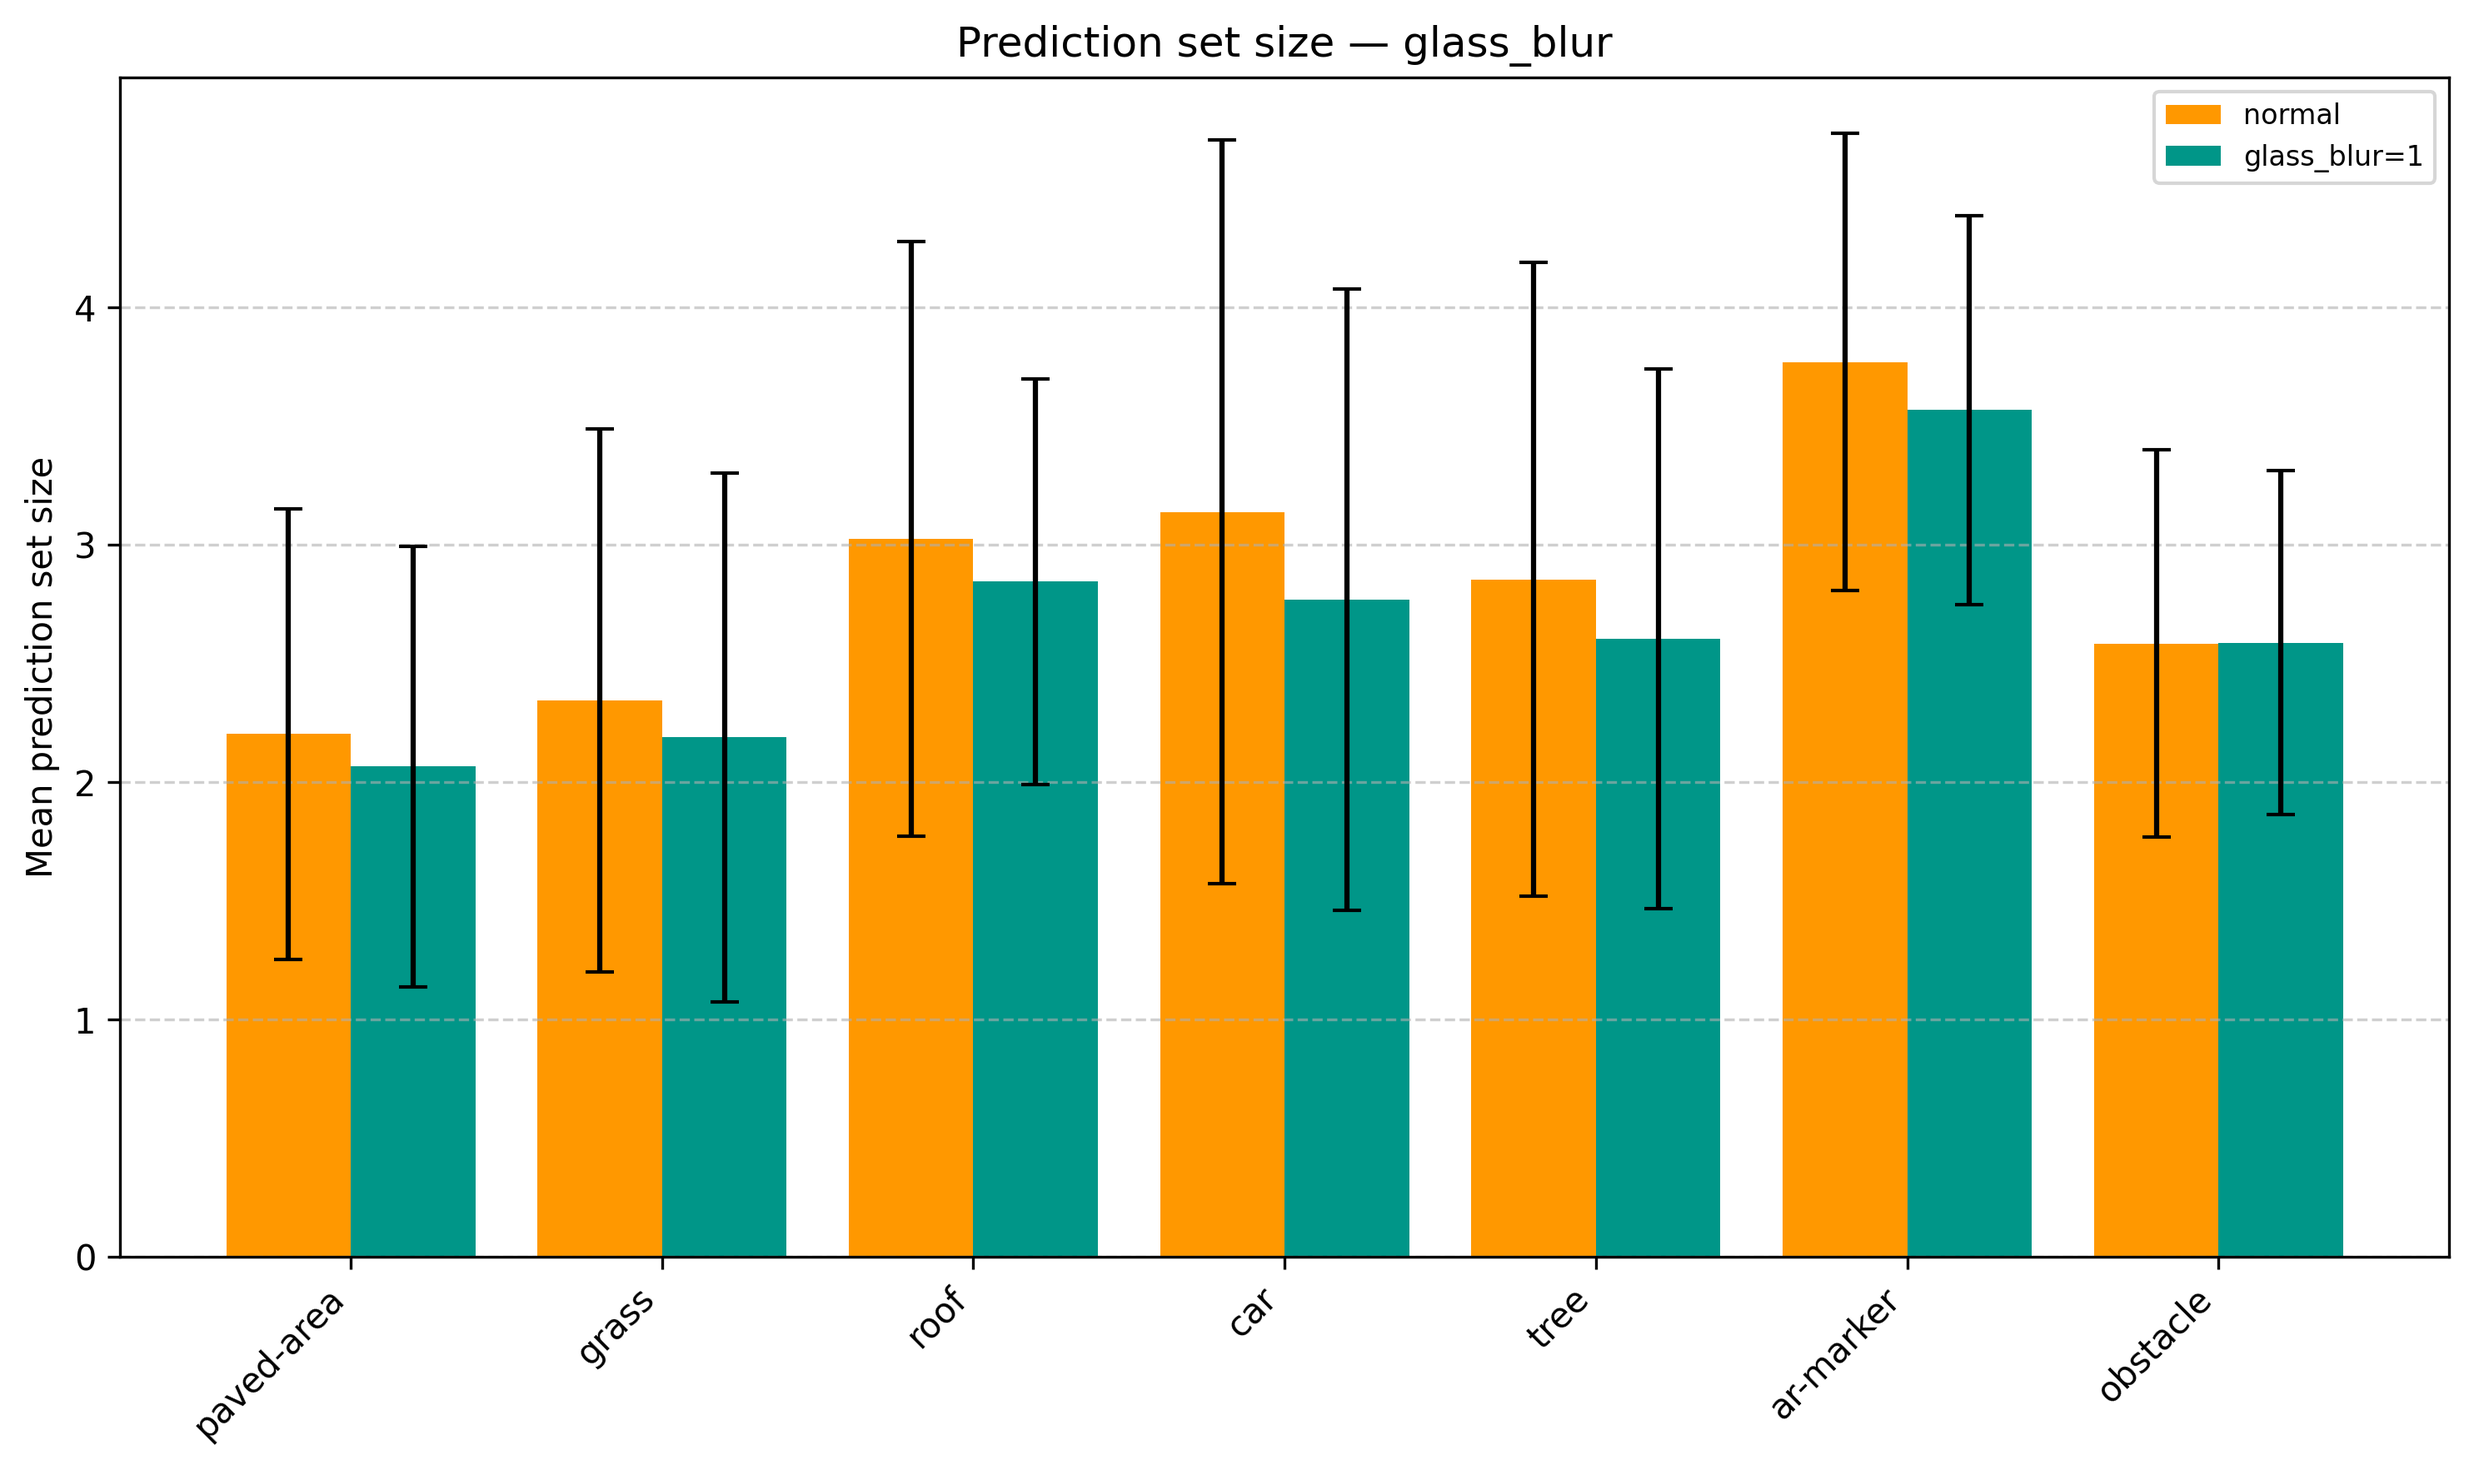
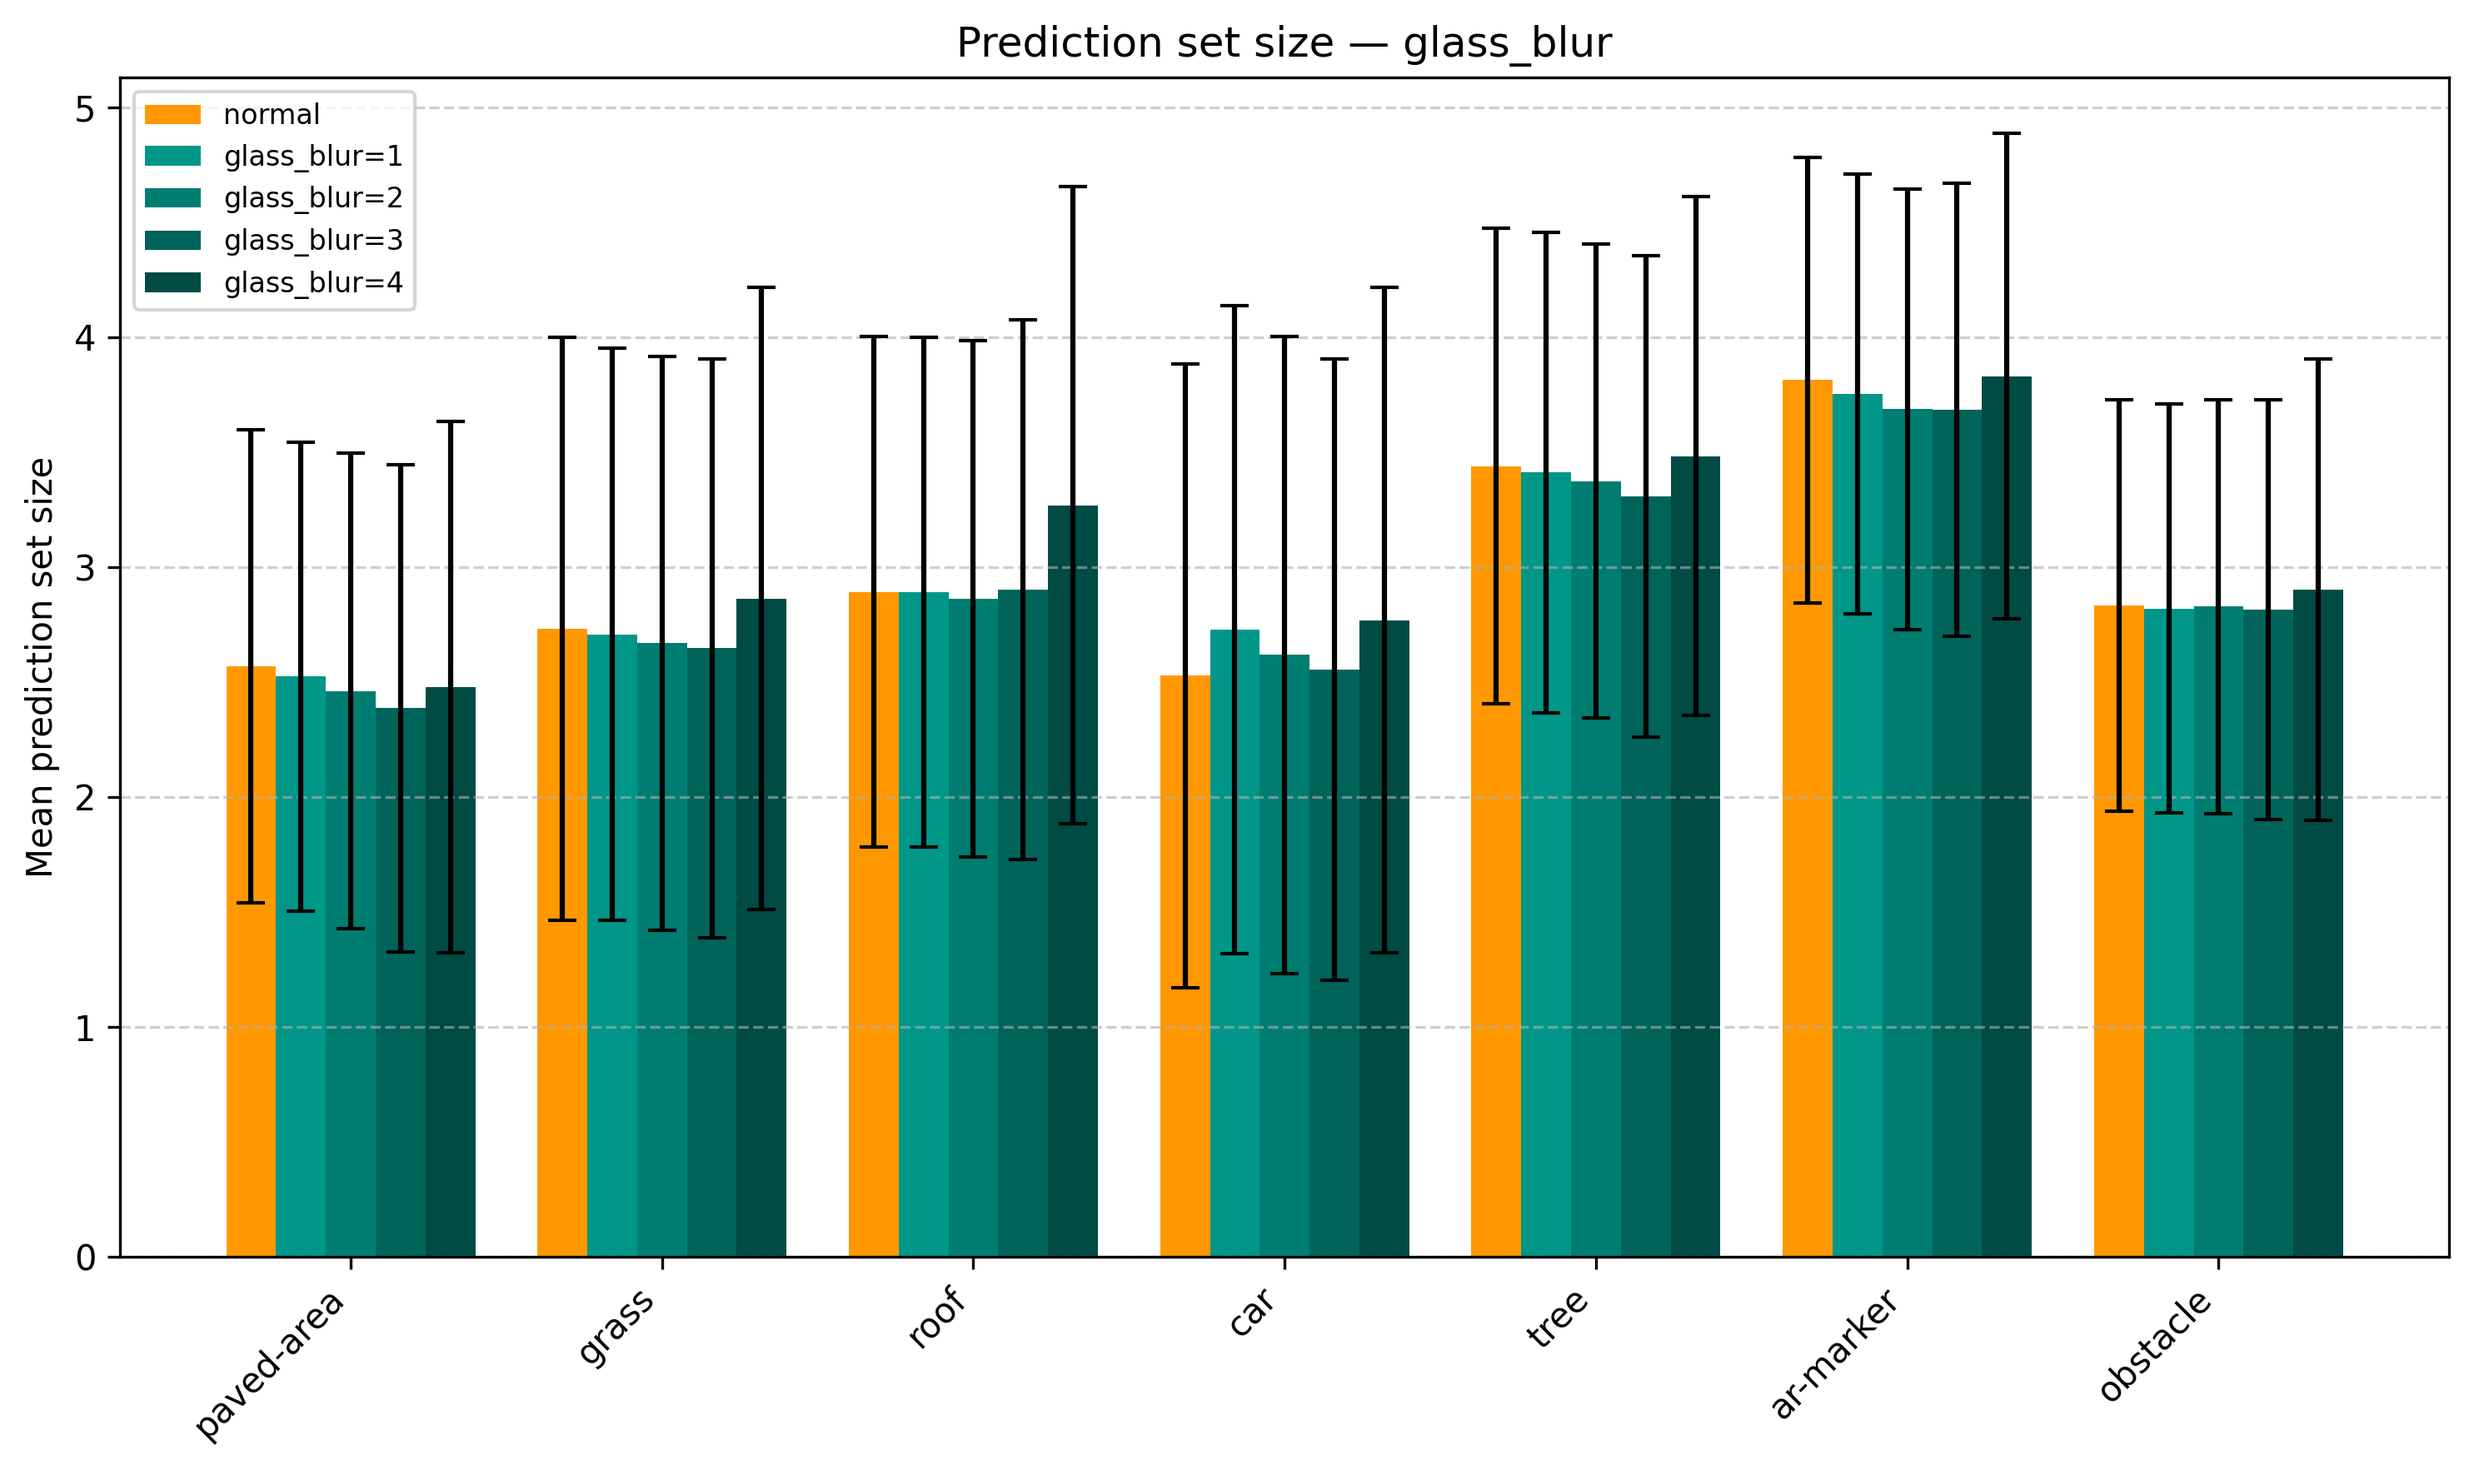
Ran new albumentations perturbations on all 400 images

diff --git a/conformal_prediction/new_stats/calc_stats.py b/conformal_prediction/new_stats/calc_stats.py
@@ -148,30 +148,30 @@ def calculate_stats(
 
 if __name__ == "__main__":
 
-    # num_images = 400
-    # image_type_dict = {
-    #     "normal": [],
-    #     "monochrome": [],
-    #     "gaussian_blur": [2,4,6,8],
-    #     "vertical_blur": [11,21,31,41],
-    #     "horizontal_blur": [11,21,31,41],
-    #     "glass_blur": [1,2,3,4],
-    #     "atmospheric_fog": [0.05, 0.10, 0.15, 0.20],
-    #     "rain": [0.85, 0.70, 0.55, 0.40]
-    # }
-    # num_images = 10
+    num_images = 400
     image_type_dict = {
         "normal": [],
         "monochrome": [],
-        "gaussian_blur": [2],
-        "vertical_blur": [11],
-        "horizontal_blur": [11],
-        "glass_blur": [1],
-        "atmospheric_fog": [0.05],
-        "rain": [0.85]
+        "gaussian_blur": [2,4,6,8],
+        "vertical_blur": [11,21,31,41],
+        "horizontal_blur": [11,21,31,41],
+        "glass_blur": [1,2,3,4],
+        "atmospheric_fog": [0.05, 0.10, 0.15, 0.20],
+        "rain": [0.85, 0.70, 0.55, 0.40]
     }
+    # # num_images = 10
+    # image_type_dict = {
+    #     "normal": [],
+    #     "monochrome": [],
+    #     "gaussian_blur": [2],
+    #     "vertical_blur": [11],
+    #     "horizontal_blur": [11],
+    #     "glass_blur": [1],
+    #     "atmospheric_fog": [0.05],
+    #     "rain": [0.85]
+    # }
 
-    num_images = 5
+    # num_images = 5
 
     for image_type, vals in image_type_dict.items():
         if vals:

diff --git a/conformal_prediction/new_stats/plots.py b/conformal_prediction/new_stats/plots.py
@@ -132,29 +132,29 @@ def plot(
 
 
 if __name__ == "__main__":
-    # image_type_dict = {
-    #     "normal": [],
-    #     "monochrome": [],
-    #     "gaussian_blur": [2,4,6,8],
-    #     "vertical_blur": [11,21,31,41],
-    #     "horizontal_blur": [11,21,31,41],
-    #     "glass_blur": [1,2,3,4],
-    #     "atmospheric_fog": [0.05, 0.10, 0.15, 0.20],
-    #     "rain": [0.85, 0.70, 0.55, 0.40]
-    # }
-    # num_images = 10
     image_type_dict = {
         "normal": [],
         "monochrome": [],
-        "gaussian_blur": [2],
-        "vertical_blur": [11],
-        "horizontal_blur": [11],
-        "glass_blur": [1],
-        "atmospheric_fog": [0.05],
-        "rain": [0.85]
+        "gaussian_blur": [2,4,6,8],
+        "vertical_blur": [11,21,31,41],
+        "horizontal_blur": [11,21,31,41],
+        "glass_blur": [1,2,3,4],
+        "atmospheric_fog": [0.05, 0.10, 0.15, 0.20],
+        "rain": [0.85, 0.70, 0.55, 0.40]
     }
+    num_images = 400
+    # image_type_dict = {
+    #     "normal": [],
+    #     "monochrome": [],
+    #     "gaussian_blur": [2],
+    #     "vertical_blur": [11],
+    #     "horizontal_blur": [11],
+    #     "glass_blur": [1],
+    #     "atmospheric_fog": [0.05],
+    #     "rain": [0.85]
+    # }
 
-    num_images = 5
+    # num_images = 5
     
     image_types = []
     for image_type, vals in image_type_dict.items():
